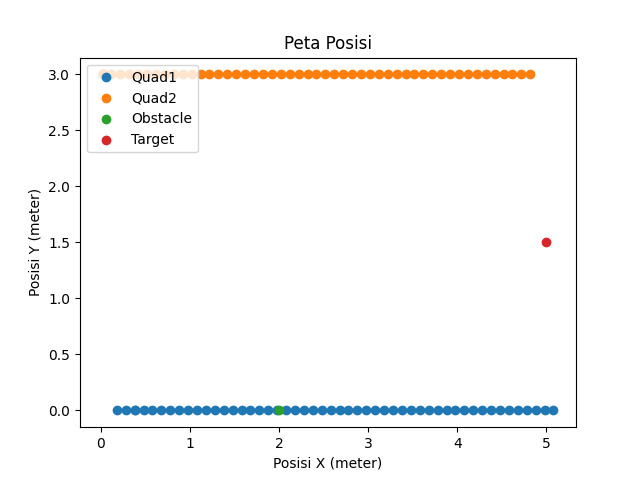
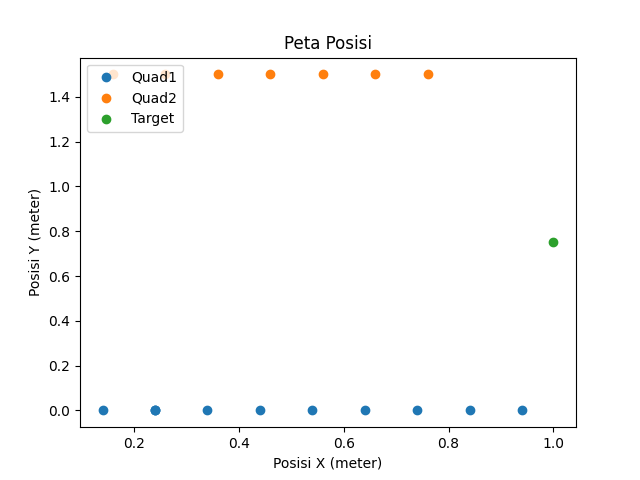
Finish Prep for Map1 Exp

diff --git a/Experiments/Map1/FormationController.js b/Experiments/Map1/FormationController.js
@@ -21,11 +21,11 @@ const setup = {
    * */
   initialAgentsPosition: [
     [0.0, 0.0, 0.7, 0],
-    [0.0, 3.0, 0.7, 0],
+    [0.0, 1.5, 0.7, 0],
   ],
-  obstaclesPosition: [[2, 0, 0.7]],
-  targetsPosition: [[5, 1.5, 0.7]],
-  initialFRP: [0, 1.5, 0.7],
+  obstaclesPosition: [],
+  targetsPosition: [[1, 0.75, 0.7]],
+  initialFRP: [0, 0.75, 0.7],
 };
 
 const Recorder = new DataRecorderFC(setup);
@@ -124,10 +124,10 @@ connectionTunnel.on(QUAD1_REQUEST, (request_data) => {
 
     // If already at destination -> Takeoff
     if (
-      (controller.VS.Formation_Reference_Point[0] ==
-        setup.targetsPosition[0][0]) &
-      (controller.VS.Formation_Reference_Point[1] ==
-        setup.targetsPosition[0][1])
+      (Math.abs(controller.VS.Formation_Reference_Point[0] -
+        setup.targetsPosition[0][0])) < 0.1 &
+      (Math.abs(controller.VS.Formation_Reference_Point[1] -
+        setup.targetsPosition[0][1])) < 0.1
     ) {
       connectionTunnel.emit(QUAD1_COMMAND, {
         command: "LAND",
@@ -215,10 +215,10 @@ connectionTunnel.on(QUAD2_REQUEST, (request_data) => {
 
     // If already at destination -> Takeoff
     if (
-      (controller.VS.Formation_Reference_Point[0] ==
-        setup.targetsPosition[0][0]) &
-      (controller.VS.Formation_Reference_Point[1] ==
-        setup.targetsPosition[0][1])
+      (Math.abs(controller.VS.Formation_Reference_Point[0] -
+        setup.targetsPosition[0][0])) < 0.1 &
+      (Math.abs(controller.VS.Formation_Reference_Point[1] -
+        setup.targetsPosition[0][1])) < 0.1
     ) {
       connectionTunnel.emit(QUAD2_COMMAND, {
         command: "LAND",

diff --git a/Utils/FormationControl/VirtualStructure.js b/Utils/FormationControl/VirtualStructure.js
@@ -10,8 +10,8 @@ function getShapePoints(shape_type) {
   switch (shape_type) {
     case "line":
       shape_points = [
-        [0, -1.50, 0.7],
-        [0, 1.50, 0.7],
+        [0, -0.75, 0.7],
+        [0, 0.75, 0.7],
       ];
       break;
 
@@ -28,19 +28,25 @@ function VirtualStructure(Formation_Reference_Point) {
    * Assumption : z is constant
    * POSITION
    * Virtual Structure = ()
-   * Quadrotor 1 =()
+   * Quadrotor 1 = ()
    * Quadrotor 2 = ()
    *
    */
   this.Heading_Angle = 0; // Yaw / Phi in Degree
   this.Shape_Points = getShapePoints("line"); // Agent Position from Formation Reference Point
   this.Formation_Reference_Point = Formation_Reference_Point;
-  this.VS_Points = [] // Current Quadrotors Position in VS
+  this.VS_Points = []; // Current Quadrotors Position in VS
   this.Shape_Points.forEach((shape_point) => {
-    this.VS_Points.push(util.calculateWithVector("plus", this.Formation_Reference_Point, shape_point))
-  })
+    this.VS_Points.push(
+      util.calculateWithVector(
+        "plus",
+        this.Formation_Reference_Point,
+        shape_point
+      )
+    );
+  });
   // this.Current_Positions = []; // Current Quadrotors Position in Real World
-  this.Movement_Range = 0.1
+  this.Movement_Range = 0.1;
 }
 
 VirtualStructure.prototype.setCurrentVSPoints = function (Current_VS_Points) {

diff --git a/Utils/FormationControl/ArtificialPotentialField.js b/Utils/FormationControl/ArtificialPotentialField.js
@@ -6,7 +6,7 @@ function ArtificialPotentialField(
   Targets_Position
 ) {
   this.Constants = {
-    odr: 1,
+    odr: 4,
     tdr: 1,
   };
   this.Parameters = {

diff --git a/Data/Map1/FC.py b/Data/Map1/FC.py
@@ -1,1 +1,1 @@
-FC = {"obstacles_position":[[2,0,0.7]],"targets_position":[[5,1.5,0.7]],"distance_quads":{"time":[0.101,0.582,1.079,1.581,2.081,2.581,3.081,3.581,4.081,4.581,5.082,5.586,6.081,6.582,7.081,7.581,8.08,8.581,9.08,9.582,10.082,10.581,11.081,11.581,12.081,12.582,13.081,13.579,14.081,14.581,15.082,15.58,16.081,16.507,16.581,17.006,17.51,18.008,18.461,18.509,18.96,19.011,19.461,19.511,19.962,20.011,20.462,20.51,20.962,21.011,21.464,21.51,21.962,22.01,22.463,22.51,22.963,23.01,23.463,23.511,23.964,24.011,24.464,24.513,24.964,25.012,25.464,25.511,25.965,26.011,26.464,26.512,26.964,27.012,27.465,27.512,27.965,28.012,28.465,28.511,28.969,29.013,29.466,29.513,29.966,30.013,30.467,30.513,30.968,31.012,31.469,31.514,31.968,32.014,32.469,32.514,32.969,33.014,33.469,33.515,33.969,34.014,34.47,34.515,34.97,35.015,35.47,35.515,35.97,36.016,36.471,36.516,36.972,37.016,37.472,37.516,37.973,38.015,38.473,38.522,38.975,39.016,39.476,39.515,39.975,40.016,40.476,40.517,40.975,41.018,41.476,41.517,41.977],"distance":[3,3,3,3,3,3,3,3,3,3,3,3,3,3,3,3,3,3,3,3,3,3,3,3,3,3,3,3,3,3,3,3,3,3,3,3,3,3.01,3.01,3,3.01,3,3.01,3,3.01,3,3.01,3,3.01,3,3.01,3,3.01,3,3.01,3,3.01,3,3.01,3,3.01,3,3.01,3,3.01,3,3.01,3,3.01,3,3.01,3,3.01,3,3.01,3,3.01,3,3.01,3,3.01,3,3.01,3,3.01,3,3.01,3,3.01,3,3.01,3,3.01,3,3.01,3,3.01,3,3.01,3,3.01,3,3.01,3,3.01,3,3.01,3,3.01,3,3.01,3,3.01,3,3.01,3,3.01,3,3.01,3,3.01,3,3.01,3,3.01,3,3.01,3,3.01,3,3.01,3,3.01]},"Quad1":{"time":[16.52,17.012,17.514,18.012,18.511,19.019,19.514,20.015,20.514,21.014,21.514,22.014,22.516,23.014,23.515,24.015,24.517,25.016,25.516,26.015,26.516,27.016,27.516,28.016,28.516,29.017,29.517,30.017,30.518,31.015,31.519,32.019,32.518,33.019,33.52,34.018,34.519,35.019,35.519,36.02,36.52,37.02,37.52,38.019,38.527,39.019,39.519,40.02,40.52,41.021,41.523],"xPos":[0.18,0.28,0.38,0.38,0.48,0.58,0.68,0.78,0.88,0.98,1.08,1.18,1.28,1.38,1.48,1.58,1.68,1.78,1.88,1.98,2.08,2.18,2.28,2.38,2.48,2.58,2.68,2.78,2.88,2.98,3.08,3.18,3.28,3.38,3.48,3.58,3.68,3.78,3.88,3.98,4.08,4.18,4.28,4.38,4.48,4.58,4.68,4.78,4.88,4.98,5.08],"yPos":[0,0,0,0,0,0,0,0,0,0,0,0,0,0,0,0,0,0,0,0,0,0,0,0,0,0,0,0,0,0,0,0,0,0,0,0,0,0,0,0,0,0,0,0,0,0,0,0,0,0,0],"zPos":[0.7,0.7,0.7,0.7,0.7,0.7,0.7,0.7,0.7,0.7,0.7,0.7,0.7,0.7,0.7,0.7,0.7,0.7,0.7,0.7,0.7,0.7,0.7,0.7,0.7,0.7,0.7,0.7,0.7,0.7,0.7,0.7,0.7,0.7,0.7,0.7,0.7,0.7,0.7,0.7,0.7,0.7,0.7,0.7,0.7,0.7,0.7,0.7,0.7,0.7,0.7],"yaw":[0,0,0,0,0,0,0,0,0,0,0,0,0,0,0,0,0,0,0,0,0,0,0,0,0,0,0,0,0,0,0,0,0,0,0,0,0,0,0,0,0,0,0,0,0,0,0,0,0,0,0]},"Quad2":{"time":[0.106,0.586,1.081,1.585,2.085,2.585,3.084,3.585,4.085,4.586,5.087,5.592,6.085,6.585,7.085,7.585,8.082,8.585,9.081,9.585,10.088,10.585,11.085,11.585,12.085,12.586,13.086,13.58,14.086,14.585,15.087,15.582,16.085,16.583,18.476,18.966,19.465,19.966,20.465,20.965,21.467,21.966,22.466,22.968,23.467,23.968,24.468,24.968,25.468,25.968,26.468,26.968,27.468,27.969,28.469,28.972,29.469,29.969,30.47,30.971,31.472,31.972,32.472,32.972,33.472,33.972,34.473,34.974,35.474,35.974,36.475,36.975,37.476,37.976,38.477,38.979,39.479,39.979,40.48,40.976,41.48],"xPos":[0.02,0.02,0.02,0.02,0.02,0.02,0.02,0.02,0.02,0.02,0.02,0.02,0.02,0.02,0.02,0.02,0.02,0.02,0.02,0.02,0.02,0.02,0.02,0.02,0.02,0.02,0.02,0.02,0.02,0.02,0.02,0.02,0.02,0.12,0.22,0.32,0.42,0.52,0.62,0.72,0.82,0.92,1.02,1.12,1.22,1.32,1.42,1.52,1.62,1.72,1.82,1.92,2.02,2.12,2.22,2.32,2.42,2.52,2.62,2.72,2.82,2.92,3.02,3.12,3.22,3.32,3.42,3.52,3.62,3.72,3.82,3.92,4.02,4.12,4.22,4.32,4.42,4.52,4.62,4.72,4.82],"yPos":[3,3,3,3,3,3,3,3,3,3,3,3,3,3,3,3,3,3,3,3,3,3,3,3,3,3,3,3,3,3,3,3,3,3,3,3,3,3,3,3,3,3,3,3,3,3,3,3,3,3,3,3,3,3,3,3,3,3,3,3,3,3,3,3,3,3,3,3,3,3,3,3,3,3,3,3,3,3,3,3,3],"zPos":[0.7,0.7,0.7,0.7,0.7,0.7,0.7,0.7,0.7,0.7,0.7,0.7,0.7,0.7,0.7,0.7,0.7,0.7,0.7,0.7,0.7,0.7,0.7,0.7,0.7,0.7,0.7,0.7,0.7,0.7,0.7,0.7,0.7,0.7,0.7,0.7,0.7,0.7,0.7,0.7,0.7,0.7,0.7,0.7,0.7,0.7,0.7,0.7,0.7,0.7,0.7,0.7,0.7,0.7,0.7,0.7,0.7,0.7,0.7,0.7,0.7,0.7,0.7,0.7,0.7,0.7,0.7,0.7,0.7,0.7,0.7,0.7,0.7,0.7,0.7,0.7,0.7,0.7,0.7,0.7,0.7],"yaw":[0,0,0,0,0,0,0,0,0,0,0,0,0,0,0,0,0,0,0,0,0,0,0,0,0,0,0,0,0,0,0,0,0,0,0,0,0,0,0,0,0,0,0,0,0,0,0,0,0,0,0,0,0,0,0,0,0,0,0,0,0,0,0,0,0,0,0,0,0,0,0,0,0,0,0,0,0,0,0,0,0]}}
+FC = {"obstacles_position":[],"targets_position":[[1,0.75,0.7]],"distance_quads":{"time":[2.962,3.45,3.945,4.447,4.633,4.949,5.132,5.45,5.632,5.95,6.136,6.45,6.632,6.95,7.132,7.45,7.631,7.952,8.132],"distance":[1.5,1.51,1.52,1.52,1.52,1.5,1.51,1.5,1.51,1.5,1.51,1.5,1.51,1.5,1.51,1.5,1.51,1.5,1.51]},"Quad1":{"time":[2.968,3.456,3.946,4.451,4.954,5.453,5.955,6.454,6.953,7.453,7.959],"xPos":[0.14,0.24,0.24,0.24,0.34,0.44,0.54,0.64,0.74,0.84,0.94],"yPos":[0,0,0,0,0,0,0,0,0,0,0],"zPos":[0.7,0.7,0.7,0.7,0.7,0.7,0.7,0.7,0.7,0.7,0.7],"yaw":[0,0,0,0,0,0,0,0,0,0,0]},"Quad2":{"time":[4.646,5.137,5.636,6.14,6.637,7.136,7.635],"xPos":[0.16,0.26,0.36,0.46,0.56,0.66,0.76],"yPos":[1.5,1.5,1.5,1.5,1.5,1.5,1.5],"zPos":[0.7,0.7,0.7,0.7,0.7,0.7,0.7],"yaw":[0,0,0,0,0,0,0]}}
